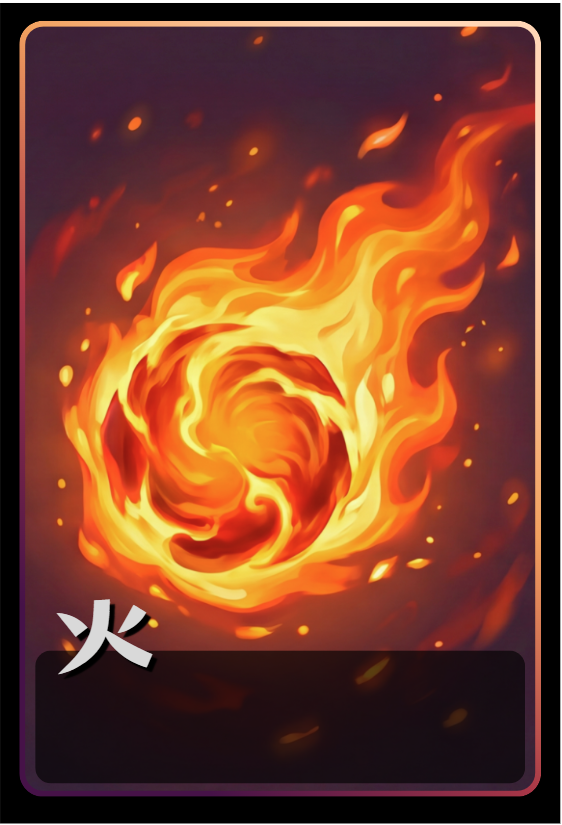
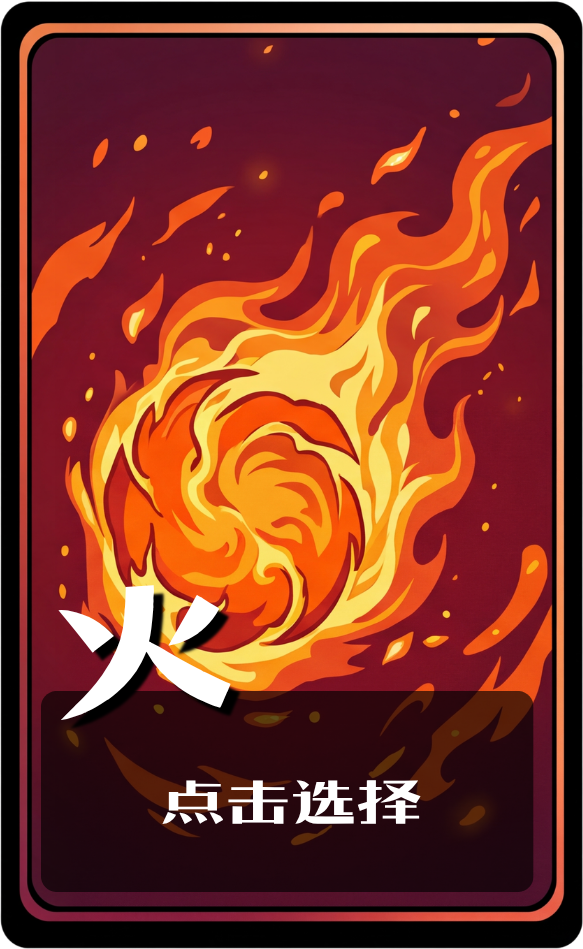
Replace CardRoom cards with baked selection labels

diff --git a/Plugins/CardRoom/Source/CardRoom/Private/SCardRoomView.cpp b/Plugins/CardRoom/Source/CardRoom/Private/SCardRoomView.cpp
@@ -104,8 +104,26 @@ int32 SCardRoomView::OnPaint(const FPaintArgs& Args,const FGeometry& G,const FSl
     {
         const ERoomCard C=R.Hand[Index]; const bool Many=R.Hand.Num()>5&&!Floating; const bool Staged=R.Staged.Contains(Index)&&!Floating;
         const float W=B.Right-B.Left,H=B.Bottom-B.Top;
-        UTexture2D* Texture=C==ERoomCard::Laser?(UI?UI->CardLaserArt.Get():nullptr):C==ERoomCard::Poison?(UI?UI->CardPoisonArt.Get():nullptr):(UI?UI->CardFireArt.Get():nullptr);
-        const TCHAR* Path=C==ERoomCard::Laser?TEXT("/Game/Rooms/CardDuel/UI/T_Card_Laser.T_Card_Laser"):C==ERoomCard::Poison?TEXT("/Game/Rooms/CardDuel/UI/T_Card_Poison.T_Card_Poison"):TEXT("/Game/Rooms/CardDuel/UI/T_Card_Fire.T_Card_Fire");
+        UTexture2D* Texture=nullptr;
+        const TCHAR* Path=nullptr;
+        if(C==ERoomCard::Laser)
+        {
+            Texture=Staged?(UI?UI->CardLaserSelectedArt.Get():nullptr):(UI?UI->CardLaserArt.Get():nullptr);
+            if(!Texture) Texture=UI?UI->CardLaserArt.Get():nullptr;
+            Path=Staged?TEXT("/Game/Rooms/CardDuel/UI/T_Card_Laser_Selected.T_Card_Laser_Selected"):TEXT("/Game/Rooms/CardDuel/UI/T_Card_Laser.T_Card_Laser");
+        }
+        else if(C==ERoomCard::Poison)
+        {
+            Texture=Staged?(UI?UI->CardPoisonSelectedArt.Get():nullptr):(UI?UI->CardPoisonArt.Get():nullptr);
+            if(!Texture) Texture=UI?UI->CardPoisonArt.Get():nullptr;
+            Path=Staged?TEXT("/Game/Rooms/CardDuel/UI/T_Card_Poison_Selected.T_Card_Poison_Selected"):TEXT("/Game/Rooms/CardDuel/UI/T_Card_Poison.T_Card_Poison");
+        }
+        else
+        {
+            Texture=Staged?(UI?UI->CardFireSelectedArt.Get():nullptr):(UI?UI->CardFireArt.Get():nullptr);
+            if(!Texture) Texture=UI?UI->CardFireArt.Get():nullptr;
+            Path=Staged?TEXT("/Game/Rooms/CardDuel/UI/T_Card_Fire_Selected.T_Card_Fire_Selected"):TEXT("/Game/Rooms/CardDuel/UI/T_Card_Fire.T_Card_Fire");
+        }
         Box(B.Left+5,B.Top+7,W,H,FLinearColor(0,0,0,.48f));
         DrawTextureObject(Texture,Path,B.Left,B.Top,W,H);
         if(Staged)
@@ -113,8 +131,6 @@ int32 SCardRoomView::OnPaint(const FPaintArgs& Args,const FGeometry& G,const FSl
             Box(B.Left-4,B.Top-4,W+8,4,FLinearColor(1.f,.85f,.28f,.95f));
             Box(B.Left-4,B.Bottom,W+8,4,FLinearColor(1.f,.85f,.28f,.95f));
         }
-        const float LabelY=B.Bottom-(Many?28.f:34.f);
-        Text(Staged?TEXT("已选中 · 点击取消"):TEXT("点击选择"),B.Left+8,LabelY,Many?10:13,Staged?FLinearColor(1.f,.86f,.35f):FLinearColor(.92f,.92f,.92f));
     };
     if(R.Phase==ECardRoomPhase::Exploring)
     {

diff --git a/Scripts/create_card_ui_settings.py b/Scripts/create_card_ui_settings.py
@@ -5,7 +5,7 @@ if not data:
  factory=unreal.DataAssetFactory(); factory.set_editor_property('data_asset_class',cls)
  data=unreal.AssetToolsHelpers.get_asset_tools().create_asset('DA_CardRoomUISettings',folder,cls,factory)
 assert data
-for prop,name in [('round_art','T_RoundHeader'),('speech_bubble_art','T_SpeechBubble'),('player_health_art','T_Health_Player'),('boss_health_art','T_Health_Boss'),('card_laser_art','T_Card_Laser'),('card_poison_art','T_Card_Poison'),('card_fire_art','T_Card_Fire')]: data.set_editor_property(prop,unreal.load_asset(folder+'/'+name))
+for prop,name in [('round_art','T_RoundHeader'),('speech_bubble_art','T_SpeechBubble'),('player_health_art','T_Health_Player'),('boss_health_art','T_Health_Boss'),('card_laser_art','T_Card_Laser'),('card_laser_selected_art','T_Card_Laser_Selected'),('card_poison_art','T_Card_Poison'),('card_poison_selected_art','T_Card_Poison_Selected'),('card_fire_art','T_Card_Fire'),('card_fire_selected_art','T_Card_Fire_Selected')]: data.set_editor_property(prop,unreal.load_asset(folder+'/'+name))
 def box(prop,pos,size):
  b=unreal.CardRoomUIBox(); b.set_editor_property('position',unreal.Vector2D(*pos)); b.set_editor_property('size',unreal.Vector2D(*size)); data.set_editor_property(prop,b)
 box('round',(48,103),(370,180));box('player_health',(46,205),(430,67));box('boss_health',(1120,205),(430,67));box('dialogue',(1018,283),(500,120));box('seated_panel',(465,625),(670,85));box('prompt',(48,596),(910,55));box('confirm',(1100,590),(430,50));box('select_all',(1100,538),(430,42));box('victory',(48,610),(870,160));box('bottom_hint',(48,850),(430,40));box('poison',(1355,220),(217,36))

diff --git a/Plugins/CardRoom/Source/CardRoom/Public/CardRoomUISettings.h b/Plugins/CardRoom/Source/CardRoom/Public/CardRoomUISettings.h
@@ -27,6 +27,11 @@ public:
     UPROPERTY(EditAnywhere, BlueprintReadWrite, Category="Artwork") TObjectPtr<UTexture2D> CardLaserArt;
     UPROPERTY(EditAnywhere, BlueprintReadWrite, Category="Artwork") TObjectPtr<UTexture2D> CardPoisonArt;
     UPROPERTY(EditAnywhere, BlueprintReadWrite, Category="Artwork") TObjectPtr<UTexture2D> CardFireArt;
+    // Optional baked selected-state artwork. When set, the card artwork carries
+    // its own lower label so the view does not need to draw a second label.
+    UPROPERTY(EditAnywhere, BlueprintReadWrite, Category="Artwork") TObjectPtr<UTexture2D> CardLaserSelectedArt;
+    UPROPERTY(EditAnywhere, BlueprintReadWrite, Category="Artwork") TObjectPtr<UTexture2D> CardPoisonSelectedArt;
+    UPROPERTY(EditAnywhere, BlueprintReadWrite, Category="Artwork") TObjectPtr<UTexture2D> CardFireSelectedArt;
 
     UPROPERTY(EditAnywhere, BlueprintReadWrite, Category="Layout") FCardRoomUIBox Round;
     UPROPERTY(EditAnywhere, BlueprintReadWrite, Category="Layout") FCardRoomUIBox PlayerHealth;

diff --git a/Scripts/import_card_ui_art.py b/Scripts/import_card_ui_art.py
@@ -3,7 +3,7 @@ root=pathlib.Path(unreal.Paths.project_dir())
 folder='/Game/Rooms/CardDuel/UI'
 source=root/'SourceAssets/CardRoomUI'
 assets=unreal.AssetToolsHelpers.get_asset_tools(); files=unreal.EditorAssetLibrary
-names=['T_Card_Laser','T_Card_Poison','T_Card_Fire','T_Health_Player','T_Health_Boss','T_RoundHeader','T_RoundDots','T_SpeechBubble']
+names=['T_Card_Laser','T_Card_Laser_Selected','T_Card_Poison','T_Card_Poison_Selected','T_Card_Fire','T_Card_Fire_Selected','T_Health_Player','T_Health_Boss','T_RoundHeader','T_RoundDots','T_SpeechBubble']
 for name in names:
  path=folder+'/'+name
  if files.does_asset_exist(path): files.delete_asset(path)
